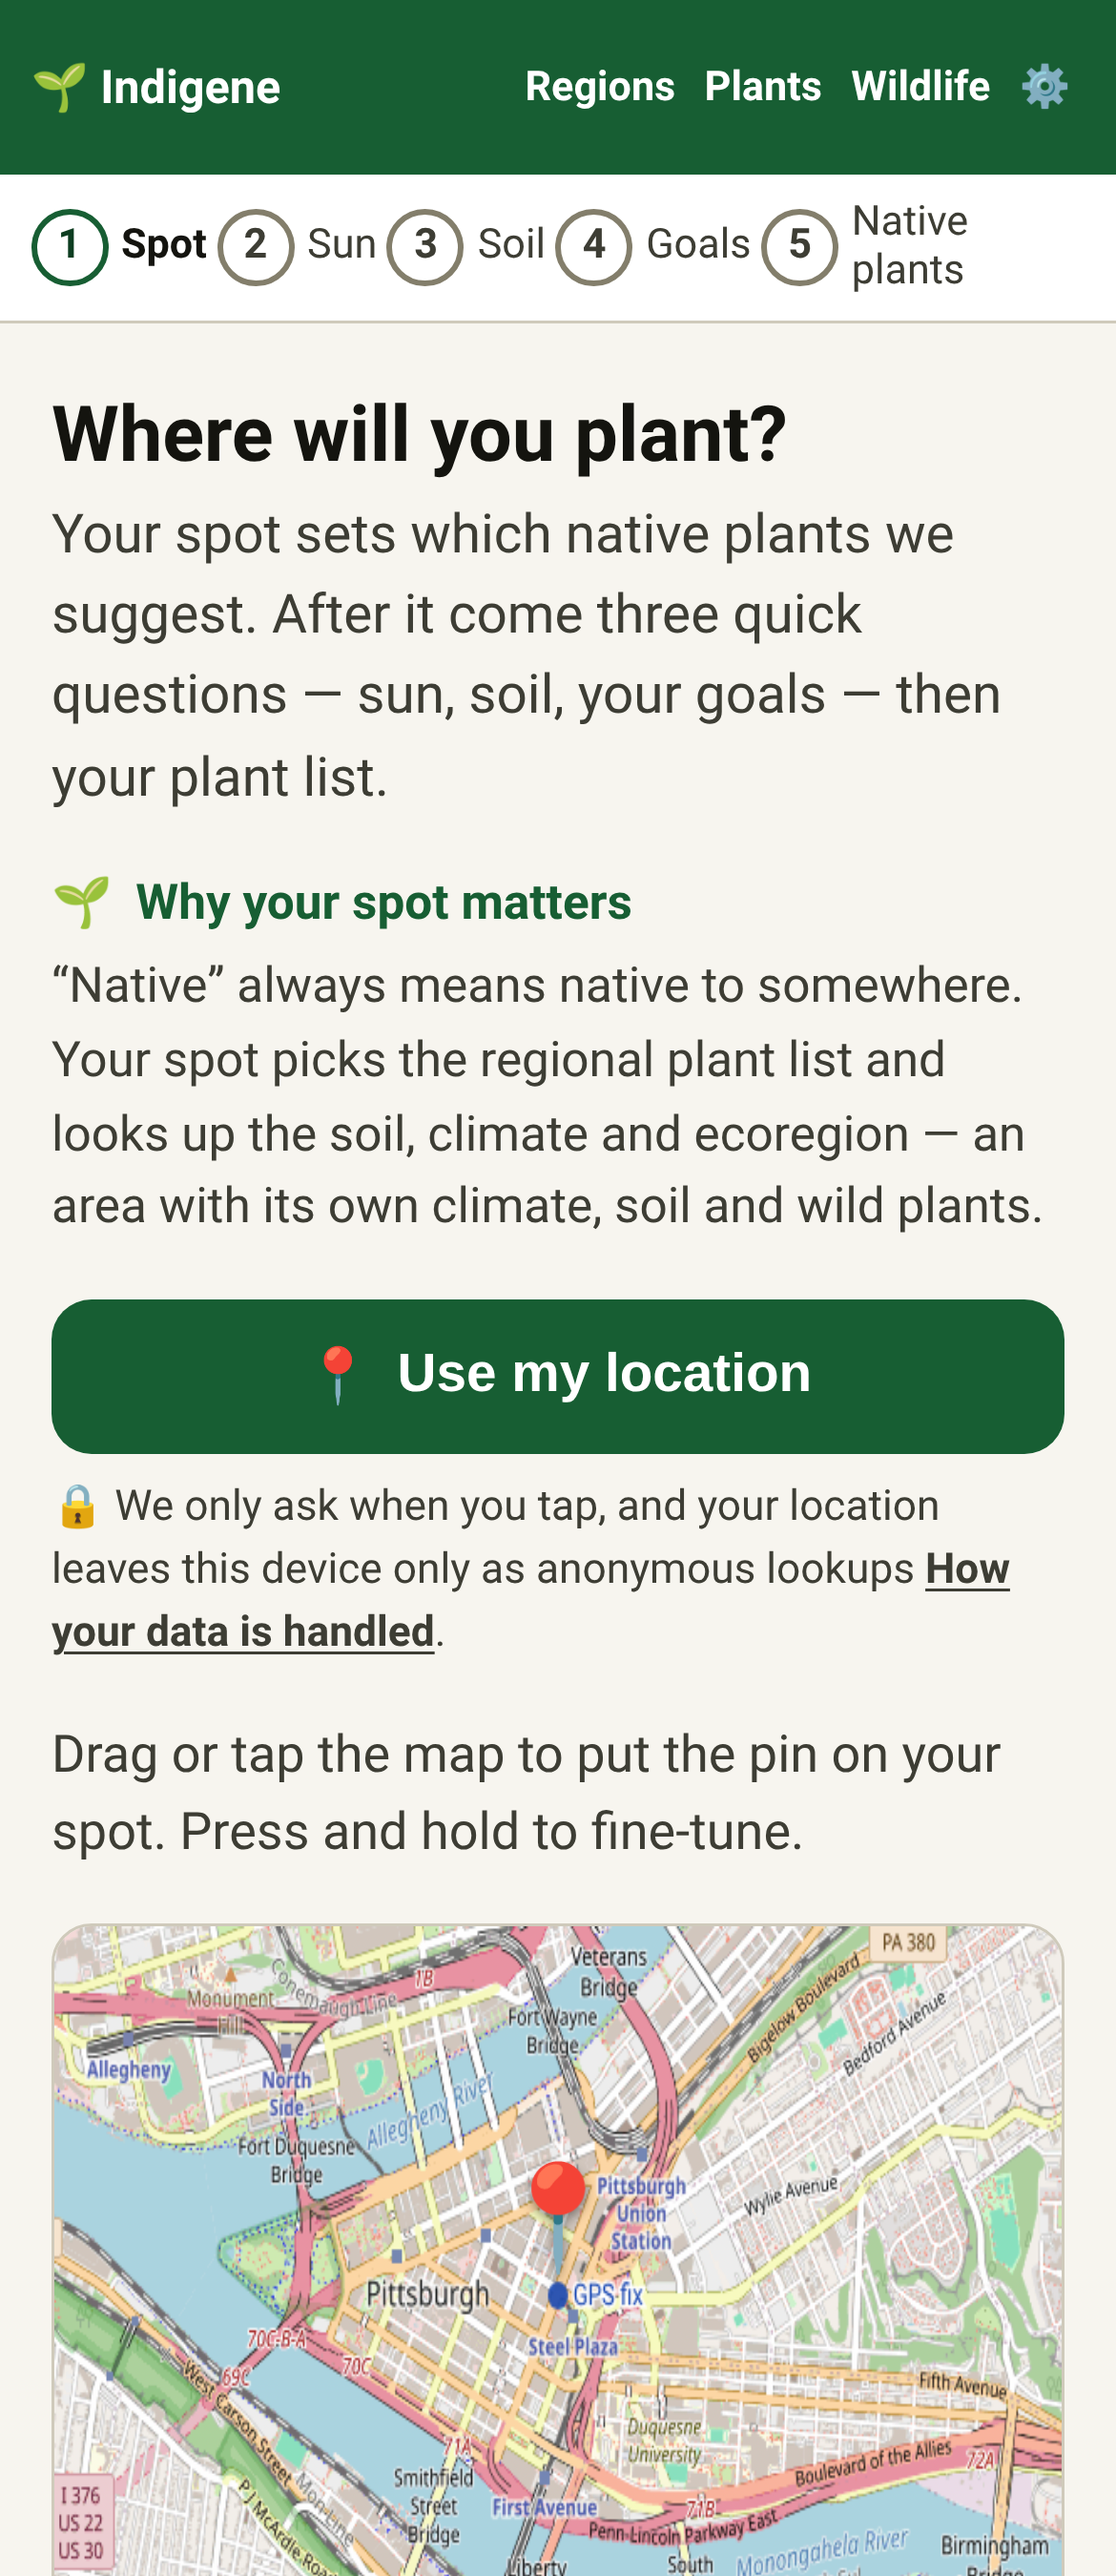
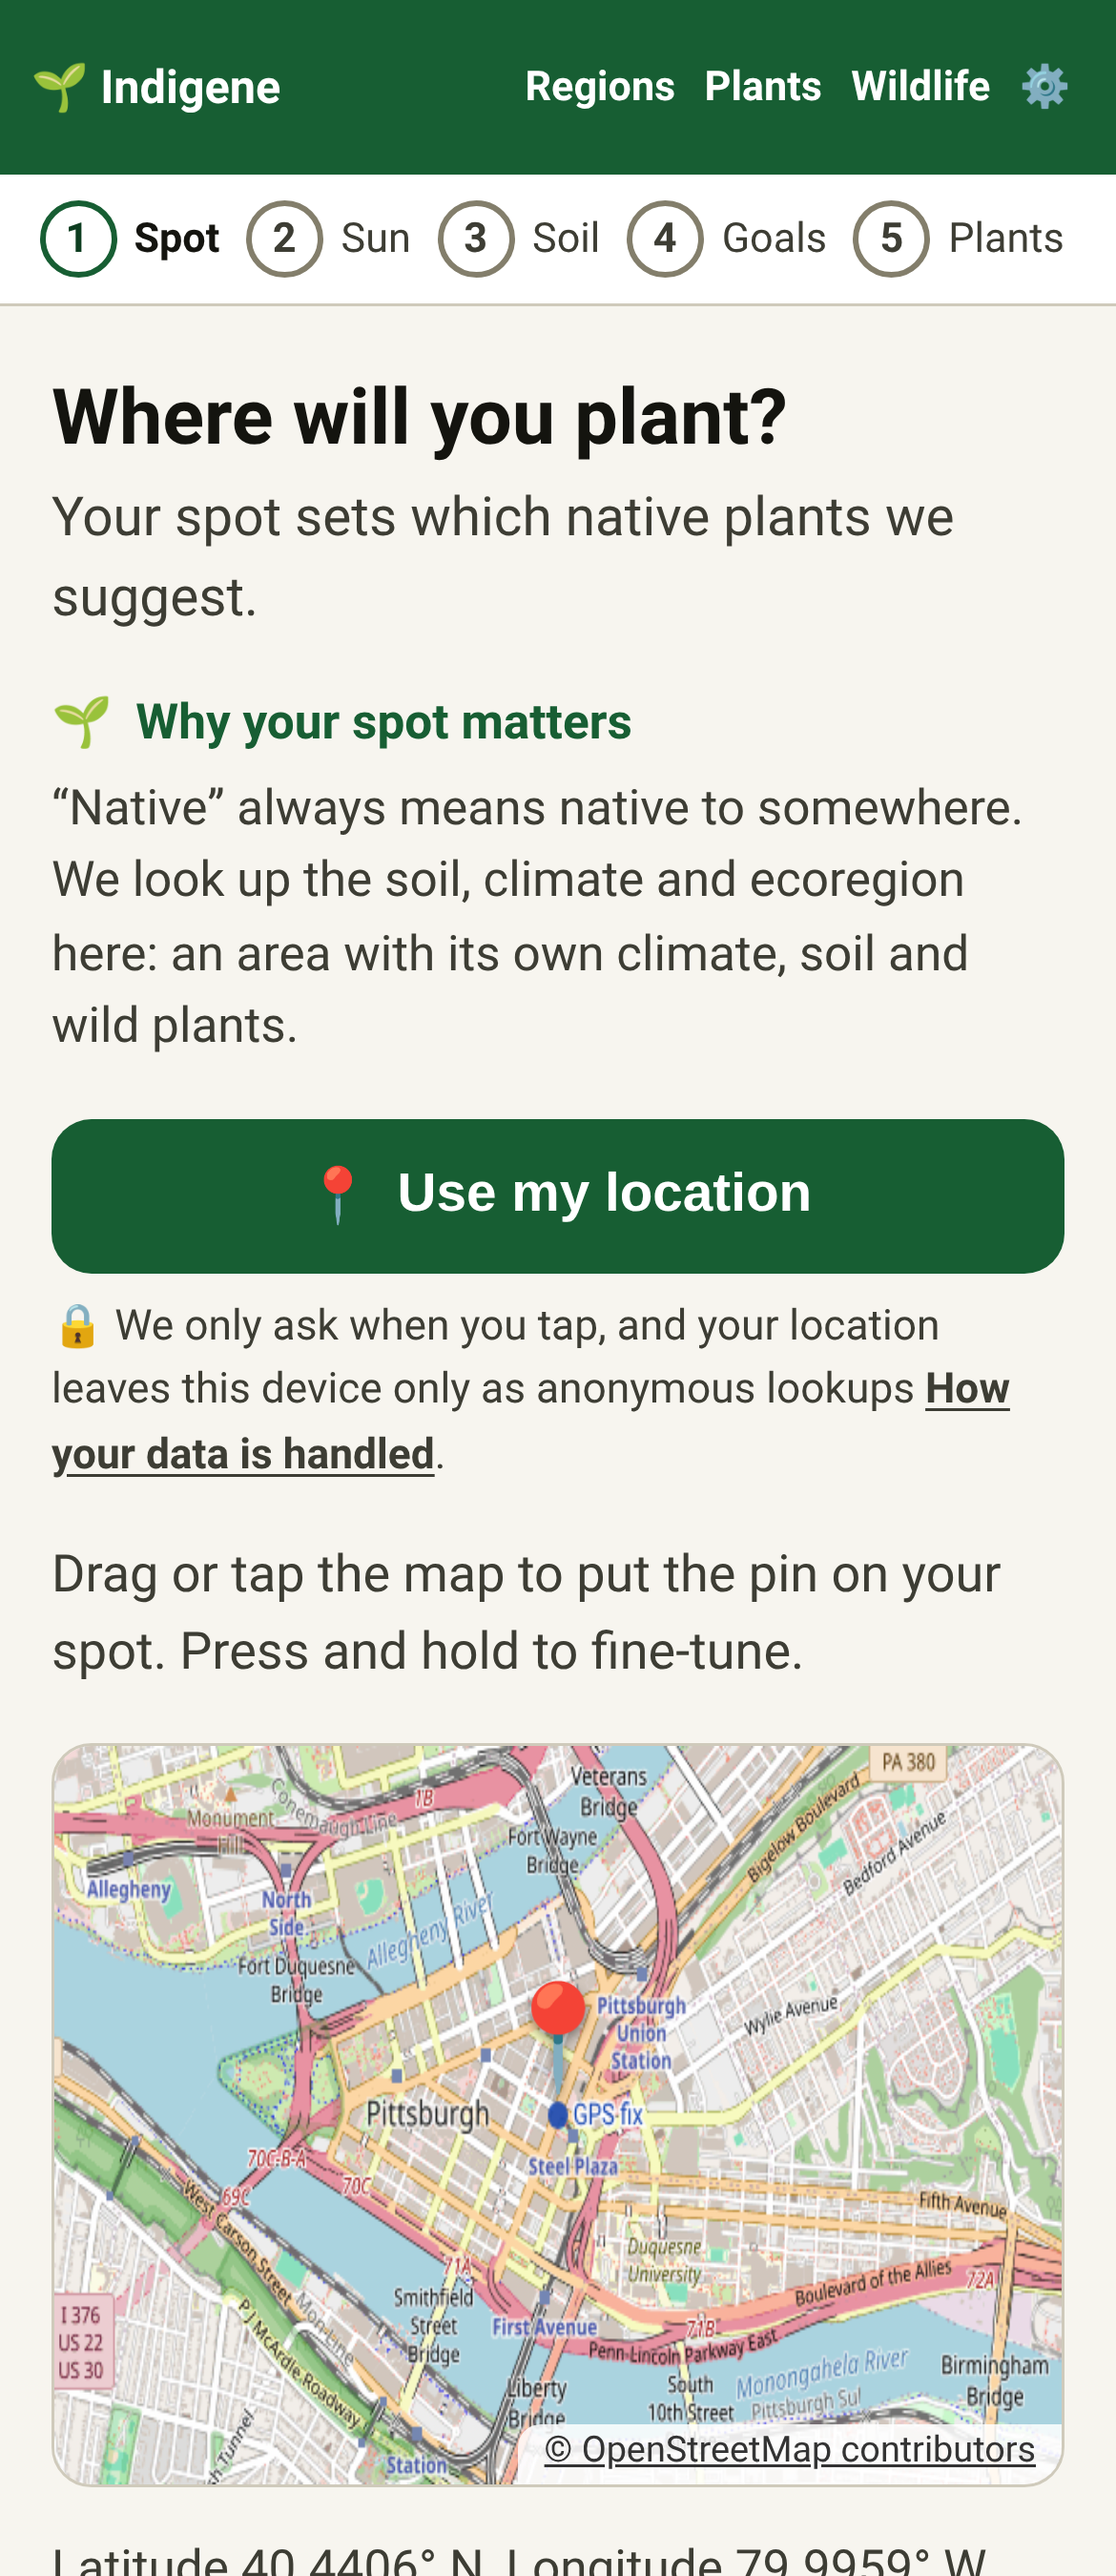
Location page: keep step 5 as Plants, drop em dashes, cut the step list
The rail already names each step, so the lede no longer lists them. Step 5
goes back to "Plants" and the rail CSS returns to main's, since the longer
label crowded the rail. Location strings in both languages lose their em
dashes, and the why box no longer repeats the lede.

Claude-Session: https://claude.ai/code/session_01BHyGB4AtbiGSGMRKrCy1VD

diff --git a/app/src/locales/fr.ts b/app/src/locales/fr.ts
@@ -76,8 +76,6 @@ export const fr: Dict = {
   "steps.soil": "Sol",
   "steps.goals": "Objectifs",
   "steps.plants": "Plantes",
-  // Step 5 of the walk. The `#/plants` index keeps "steps.plants".
-  "steps.results": "Plantes indigènes",
   "steps.saved": "Lieux",
   "steps.browse": "Parcourir",
   "steps.explore": "Explorer",
@@ -611,11 +609,10 @@ export const fr: Dict = {
   // Localisation (étape 1).
   // ---------------------------------------------------------------------
   "location.title": "Où allez-vous planter ?",
-  "location.lede":
-    "Votre lieu décide des plantes indigènes que nous proposons. Ensuite, trois questions rapides — soleil, sol, vos objectifs — puis votre liste de plantes.",
+  "location.lede": "Votre lieu décide des plantes indigènes que nous proposons.",
   "location.whyTitle": "Pourquoi votre lieu compte",
   "location.why":
-    "« Indigène » veut toujours dire indigène de quelque part. Votre lieu choisit la liste régionale et va chercher le sol, le climat et l'écorégion — une zone qui a son propre climat, son sol et ses plantes sauvages.",
+    "« Indigène » veut toujours dire indigène de quelque part. Nous consultons le sol, le climat et l'écorégion de ce lieu : une zone qui a son propre climat, son sol et ses plantes sauvages.",
   "location.use": "📍 Utiliser ma position",
   "location.update": "📍 Actualiser ma position",
   "location.locating": "Localisation…",
@@ -625,7 +622,7 @@ export const fr: Dict = {
   "location.mapHint":
     "Faites glisser ou touchez la carte pour placer le repère sur votre lieu. Restez appuyé pour l'ajuster finement.",
   "location.mapLabel":
-    "Carte. Le repère reste au centre. Faites glisser ou touchez pour amener votre lieu dessous, ou utilisez les flèches du clavier pour l'ajuster — maintenez Maj pour de plus grands pas.",
+    "Carte. Le repère reste au centre. Faites glisser ou touchez pour amener votre lieu dessous, ou utilisez les flèches du clavier pour l'ajuster. Maintenez Maj pour de plus grands pas.",
   "location.osmAttribution": "© les contributeurs d'OpenStreetMap",
   "location.gpsFix": "point GPS",
   "location.savedHere": "Enregistré ici",
@@ -653,46 +650,47 @@ export const fr: Dict = {
   "location.dir.sw": "vers le sud-ouest",
   "location.dir.w": "vers l'ouest",
   "location.dir.nw": "vers le nord-ouest",
-  "location.noGeolocation": "Cet appareil ne peut pas partager sa position — essayez la recherche par commune.",
-  "location.denied": "Position refusée — essayez la recherche par commune.",
-  "location.noFix": "Impossible d'obtenir un point — réessayez, ou passez à la recherche par commune.",
+  "location.noGeolocation":
+    "Cet appareil ne peut pas partager sa position. Essayez la recherche par commune.",
+  "location.denied": "Position refusée. Essayez la recherche par commune.",
+  "location.noFix": "Impossible d'obtenir un point. Réessayez, ou passez à la recherche par commune.",
   "location.searchTitle": "Pas de GPS ? Cherchez votre commune",
   "location.searchLabel": "Votre commune, ville ou code postal",
   "location.searchPlaceholder": "ex. Nantes, ou 44000",
   "location.search": "Rechercher",
   "location.searching": "Recherche…",
   "location.searchNoResults":
-    "Introuvable. Essayez la commune avec sa région — « Saint-Denis Réunion » par exemple — ou un code postal.",
+    "Introuvable. Essayez la commune avec sa région, par exemple « Saint-Denis Réunion », ou un code postal.",
   "location.searchOffline":
     "La recherche de communes a besoin d'une connexion. Utilisez votre position, ou choisissez votre région.",
   "location.pinSet": "Repère placé au centre de {place}. ",
   "location.pinSetRest":
     "C'est suffisant pour votre région et votre liste. Pour le sol et la pente, faites glisser le repère à peu près sur votre terrain.",
   "location.pinSetUncovered":
-    "Repère placé au centre de {place} — mais nous n'avons pas encore de liste de plantes pour cette zone.",
+    "Repère placé au centre de {place}, mais nous n'avons pas encore de liste de plantes pour cette zone.",
   "location.noListHere": "Nous n'avons pas encore de liste de plantes pour cette zone.",
   "location.coverage":
     "Les listes d'Indigene vont région par région, et ce lieu est en dehors de toutes. Les mesures de soleil et de sol fonctionnent toujours. En attendant :",
   "location.coverageBrowse": "Parcourir les plantes indigènes des régions couvertes",
   "location.coverageBrowseRest": " pour voir ce qu'Indigene propose.",
   "location.coverageAsk": "Demander votre région sur GitHub",
-  "location.coverageAskRest": " avec votre commune ou votre code postal — ou ajoutez la région vous-même.",
+  "location.coverageAskRest": " avec votre commune ou votre code postal, ou ajoutez la région vous-même.",
   "location.regionTitle": "🗺 Choisissez votre région",
   "location.regionLede":
     "Vous connaissez votre région ? Sautez la carte. Sans point sur la carte, nous ne pouvons pas consulter votre sol, votre pluie ni le froid de vos hivers : la liste s'appuie alors sur vos réponses.",
   "location.regionShowAll": "Ce n'est pas celle-ci ? Afficher toutes les régions",
-  "location.spotRemembered": "Le repère est là où vous l'aviez laissé — {link}.",
+  "location.spotRemembered": "Le repère est là où vous l'aviez laissé ({link}).",
   "location.rememberedLink": "gérer ce qui est retenu",
-  "location.regionDefault": "Votre région de départ — {link}.",
+  "location.regionDefault": "Votre région de départ ({link}).",
   "location.regionDefaultLink": "la changer dans les Réglages",
-  "location.regionRemembered": "La région choisie la dernière fois — {link}.",
+  "location.regionRemembered": "La région choisie la dernière fois ({link}).",
   "location.switchFromGps": "Vous ne voulez pas utiliser votre position ? {a} ou {b}.",
   "location.switchFromOther": "Vous avez changé d'avis ? {a} ou {b}.",
   "location.switchZip": "cherchez votre commune",
   "location.switchGps": "utilisez le GPS",
   "location.switchRegion": "choisissez une région",
   "location.pickFirst": "Choisissez d'abord une région.",
-  "location.usingList": "Liste {region} retenue — votre choix.",
+  "location.usingList": "Liste {region} retenue, selon votre choix.",
   "location.back": "Retour",
   "location.next": "Suite : mesurer le soleil →",
   "location.moveTitle": "Déplacer {label}",

diff --git a/app/src/locales/en.ts b/app/src/locales/en.ts
@@ -83,8 +83,6 @@ export const en = {
   "steps.soil": "Soil",
   "steps.goals": "Goals",
   "steps.plants": "Plants",
-  // Step 5 of the walk. The `#/plants` index keeps "steps.plants".
-  "steps.results": "Native plants",
   "steps.saved": "Saved",
   "steps.browse": "Browse",
   "steps.explore": "Explore",
@@ -591,11 +589,10 @@ export const en = {
   // Location (step 1).
   // ---------------------------------------------------------------------
   "location.title": "Where will you plant?",
-  "location.lede":
-    "Your spot sets which native plants we suggest. After it come three quick questions — sun, soil, your goals — then your plant list.",
+  "location.lede": "Your spot sets which native plants we suggest.",
   "location.whyTitle": "Why your spot matters",
   "location.why":
-    "“Native” always means native to somewhere. Your spot picks the regional plant list and looks up the soil, climate and ecoregion — an area with its own climate, soil and wild plants.",
+    "“Native” always means native to somewhere. We look up the soil, climate and ecoregion here: an area with its own climate, soil and wild plants.",
   "location.use": "📍 Use my location",
   "location.update": "📍 Update my location",
   "location.locating": "Locating…",
@@ -605,7 +602,7 @@ export const en = {
   "location.mapHint":
     "Drag or tap the map to put the pin on your spot. Press and hold to fine-tune.",
   "location.mapLabel":
-    "Map. The pin stays in the center. Drag or tap to move the spot under it, or use the arrow keys to nudge it — hold Shift for bigger steps.",
+    "Map. The pin stays in the center. Drag or tap to move the spot under it, or use the arrow keys to nudge it. Hold Shift for bigger steps.",
   "location.osmAttribution": "© OpenStreetMap contributors",
   "location.gpsFix": "GPS fix",
   "location.savedHere": "Saved here",
@@ -639,28 +636,29 @@ export const en = {
   "location.dir.sw": "southwest",
   "location.dir.w": "west",
   "location.dir.nw": "northwest",
-  "location.noGeolocation": "This device can't share location — try the town search instead.",
-  "location.denied": "Location denied — try the town search instead.",
-  "location.noFix": "Couldn't get a fix — try again, or switch to the town search.",
+  "location.noGeolocation": "This device can't share location. Try the town search instead.",
+  "location.denied": "Location denied. Try the town search instead.",
+  "location.noFix": "Couldn't get a fix. Try again, or switch to the town search.",
   "location.searchTitle": "No GPS? Search by town",
   "location.searchLabel": "Your town, city, or postal code",
   "location.searchPlaceholder": "e.g. State College, or 16801",
   "location.search": "Search",
   "location.searching": "Searching…",
   "location.searchNoResults":
-    "Couldn't find that. Try the town with its state or province — like “Springfield Pennsylvania” — or a postal code.",
+    "Couldn't find that. Try the town with its state or province, like “Springfield Pennsylvania”, or a postal code.",
   "location.searchOffline": "The town search needs a signal. Use your location instead, or pick your region.",
   "location.pinSet": "Pin set to the middle of {place}. ",
   "location.pinSetRest":
     "That's enough for your region and plant list. For the soil and slope, drag the pin roughly onto your yard.",
-  "location.pinSetUncovered": "Pin set to the middle of {place} — but we don't have a plant list for this area yet.",
+  "location.pinSetUncovered":
+    "Pin set to the middle of {place}, but we don't have a plant list for this area yet.",
   "location.noListHere": "We don't have a plant list for this area yet.",
   "location.coverage":
     "Indigene's plant lists go region by region, and this spot is outside all of them. The sun and soil readings still work. Meanwhile:",
   "location.coverageBrowse": "Browse the covered regions' native plants",
   "location.coverageBrowseRest": " to see what Indigene suggests.",
   "location.coverageAsk": "Ask for your area on GitHub",
-  "location.coverageAskRest": " with your town or postal code — or add the region yourself.",
+  "location.coverageAskRest": " with your town or postal code, or add the region yourself.",
   "location.regionTitle": "🗺 Pick your region",
   "location.regionLede":
     "Know your region? Skip the map. Without a point on it we can't look up your soil, rain or winter cold, so the list leans on your answers.",
@@ -668,18 +666,18 @@ export const en = {
   // The three in-flow recall lines. Each is one sentence and a link, because
   // the page that explains what's remembered is one tap away and doesn't need
   // repeating in a garden (see components/memory-controls.ts).
-  "location.spotRemembered": "The pin is where you left it last time — {link}.",
+  "location.spotRemembered": "The pin is where you left it last time ({link}).",
   "location.rememberedLink": "manage what's remembered",
-  "location.regionDefault": "Your starting region — {link}.",
+  "location.regionDefault": "Your starting region ({link}).",
   "location.regionDefaultLink": "change it in Settings",
-  "location.regionRemembered": "The region you picked last time — {link}.",
+  "location.regionRemembered": "The region you picked last time ({link}).",
   "location.switchFromGps": "Don't want to use your location? {a} or {b} instead.",
   "location.switchFromOther": "Changed your mind? {a} or {b} instead.",
   "location.switchZip": "Search by town",
   "location.switchGps": "Use GPS location",
   "location.switchRegion": "pick a region",
   "location.pickFirst": "Pick a region first.",
-  "location.usingList": "Using the {region} list — your pick.",
+  "location.usingList": "Using the {region} list, as you picked.",
   "location.back": "Back",
   "location.next": "Next: measure the sun →",
   "location.moveTitle": "Move {label}",

diff --git a/app/src/styles.css b/app/src/styles.css
@@ -824,24 +824,22 @@ p.more-link a {
 }
 .steps-list {
   display: flex;
-  gap: 0.2rem;
+  gap: 0.25rem;
   list-style: none;
   margin: 0 auto;
-  padding: 0.5rem 0.6rem;
+  padding: 0.5rem 0.75rem;
   max-width: var(--maxw);
   overflow-x: auto;
 }
-/* A two-word label ("Native plants") wraps onto two lines rather than pushing
-   the last step off a phone's screen; a single word never breaks. */
 .steps-list li {
   flex: 1 1 auto;
-  min-width: min-content;
+  min-width: max-content;
   font-size: 0.8rem;
-  line-height: 1.15;
   color: var(--ink-soft);
   display: flex;
   align-items: center;
-  gap: 0.25rem;
+  gap: 0.35rem;
+  white-space: nowrap;
 }
 .steps-list .dot {
   width: 1.5rem;

diff --git a/app/src/main.ts b/app/src/main.ts
@@ -85,7 +85,7 @@ const STEPS: Record<AppStep, { fn: StepFn; labelKey: TKey; inFlow: boolean }> = 
   scan: { fn: renderScan, labelKey: "steps.sun", inFlow: true },
   confirm: { fn: renderConfirm, labelKey: "steps.soil", inFlow: true },
   priorities: { fn: renderPriorities, labelKey: "steps.goals", inFlow: true },
-  results: { fn: renderResults, labelKey: "steps.results", inFlow: true },
+  results: { fn: renderResults, labelKey: "steps.plants", inFlow: true },
   saved: { fn: renderSaved, labelKey: "steps.saved", inFlow: false },
   browse: { fn: renderBrowse, labelKey: "steps.browse", inFlow: false },
   plants: { fn: renderPlants, labelKey: "steps.plants", inFlow: false },

diff --git a/changelog.d/claude-location-page-voice-tone.md b/changelog.d/claude-location-page-voice-tone.md
@@ -1,3 +1,3 @@
 ### Changed
 
-- The [location page](https://indigene.app/#/location) now says what's ahead — your spot, then sun, soil and goals, then your list — in fewer words, and the last step is called Native plants.
+- The [location page](https://indigene.app/#/location) is shorter and plainer: it says why your spot matters, then how to set the pin.
